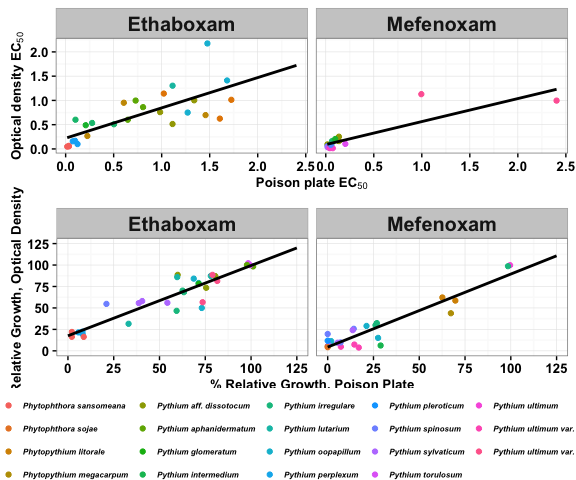
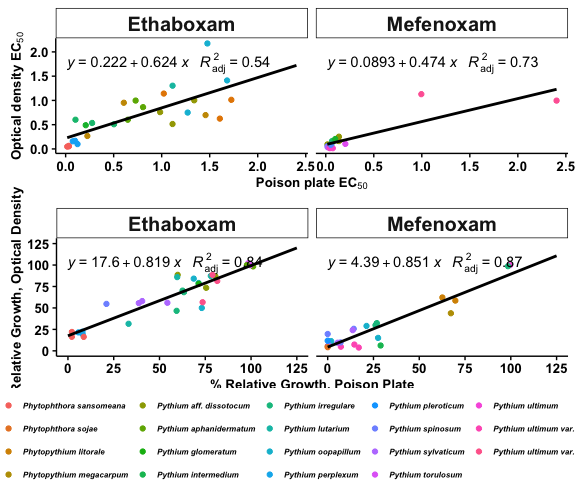
commit .md

Changed region(s): [[0.0938, 0.0, 1.0, 0.3438], [0.0938, 0.4062, 1.0, 0.75]]

diff --git a/MethodCorrelation.md b/MethodCorrelation.md
@@ -1133,21 +1133,21 @@ qqnorm(resid(lm3), main = "log transformed"); qqline(resid(lm3))
 ![](MethodCorrelation_files/figure-markdown_github/unnamed-chunk-6-2.png)
 
 ``` r
-car::Anova(lm3, type = 2)
+anova(lm3)
 ```
 
-    ## Anova Table (Type II tests)
+    ## Analysis of Variance Table
     ## 
     ## Response: log(absolute)
-    ##                Sum Sq  Df  F value                Pr(>F)    
-    ## is             318.21  38  15.3235 < 0.00000000000000022 ***
-    ## chem            64.98   1 118.9061 < 0.00000000000000022 ***
-    ## method           0.75   1   1.3801              0.242386    
-    ## is:chem         10.65   6   3.2482              0.005385 ** 
-    ## is:method       20.46  38   0.9853              0.504058    
-    ## chem:method      0.24   1   0.4403              0.508217    
-    ## is:chem:method   0.91   6   0.2778              0.946444    
-    ## Residuals       66.12 121                                   
+    ##                 Df Sum Sq Mean Sq  F value                Pr(>F)    
+    ## is              38 365.52   9.619  17.6018 < 0.00000000000000022 ***
+    ## chem             1  64.77  64.770 118.5218 < 0.00000000000000022 ***
+    ## method           1   0.76   0.758   1.3869              0.241245    
+    ## is:chem          6  11.28   1.880   3.4411              0.003579 ** 
+    ## is:method       38  20.44   0.538   0.9843              0.505606    
+    ## chem:method      1   0.24   0.241   0.4403              0.508217    
+    ## is:chem:method   6   0.91   0.152   0.2778              0.946444    
+    ## Residuals      121  66.12   0.546                                   
     ## ---
     ## Signif. codes:  0 '***' 0.001 '**' 0.01 '*' 0.05 '.' 0.1 ' ' 1
 
@@ -1421,14 +1421,19 @@ length(levels(cor.plot.relgrowth$is))
     guides(colour = guide_legend(title = "Species")) +
     scale_y_continuous(limits = c(0, 125), breaks = c(0, 25, 50, 75, 100, 125)) +
     scale_x_continuous(limits = c(0, 125), breaks = c(0, 25, 50, 75, 100, 125)) +
-    geom_smooth(method = "lm", se = FALSE, fullrange = TRUE, col = "black") +
+     geom_smooth(method = "lm", se=FALSE, color="black", formula = y ~ x, fullrange = TRUE) +
+  stat_poly_eq(formula = y ~ x, 
+               aes(label = paste(..eq.label.., ..adj.rr.label.., sep = "~~~")), 
+               parse = TRUE) +
     xlab("% Relative Growth, Poison Plate") + 
     ylab("% Relative Growth, Optical Density") + 
-    theme_bw() +
+    theme_classic() +
     theme(axis.text.x = element_text(size = 10, face = "bold"),
           axis.text.y = element_text(size = 10, face = "bold"),
           axis.title.x = element_text(size = 10, face = "bold"),
           axis.title.y = element_text(size = 10, face = "bold"),
+          axis.line.x = element_line(colour = 'black', size=0.5, linetype='solid'),
+          axis.line.y = element_line(colour = 'black', size=0.5, linetype='solid'),
           legend.text = element_text(size = 6, face = "bold.italic"),
           legend.key = element_blank(),
           legend.title = element_text(size = 10, face="bold"),
@@ -1437,19 +1442,24 @@ length(levels(cor.plot.relgrowth$is))
    facet_wrap(~chem)
 p1 <- ggplot(EC50, aes(mean.abs.pp, mean.abs.od)) + 
   geom_point(aes(color = factor(species_od))) +
-  geom_smooth(method = "lm", se = FALSE, fullrange = TRUE, col = "black") + 
+ geom_smooth(method = "lm", se=FALSE, color="black", formula = y ~ x, fullrange = TRUE) +
+  stat_poly_eq(formula = y ~ x, 
+               aes(label = paste(..eq.label.., ..adj.rr.label.., sep = "~~~")), 
+               parse = TRUE) +
   guides(colour = guide_legend(title = "Species")) +
   xlab(expression(bold("Poison plate EC"[50]))) + 
   ylab(expression(bold("Optical density EC"[50]))) + 
-  theme_bw() + 
+  theme_classic() + 
   theme(axis.text.x = element_text(size = 10, face = "bold"),
-          axis.text.y = element_text(size = 10, face = "bold"),
-          axis.title.x = element_text(size = 10, face = "bold"),
-          axis.title.y = element_text(size = 10, face = "bold"),
-          legend.text = element_text(size = 9, face = "bold.italic"),
-          legend.key = element_blank(),
-          legend.title = element_text(size = 10, face="bold"),
-   strip.text.x = element_text(size = 15, face = "bold")) +
+        axis.text.y = element_text(size = 10, face = "bold"),
+        axis.title.x = element_text(size = 10, face = "bold"),
+        axis.title.y = element_text(size = 10, face = "bold"),
+        axis.line.x = element_line(colour = 'black', size=0.5, linetype='solid'),
+        axis.line.y = element_line(colour = 'black', size=0.5, linetype='solid'),
+        legend.text = element_text(size = 9, face = "bold.italic"),
+        legend.key = element_blank(),
+        legend.title = element_text(size = 10, face="bold"),
+        strip.text.x = element_text(size = 15, face = "bold")) +
   facet_wrap(~chem2)
 ```
 
